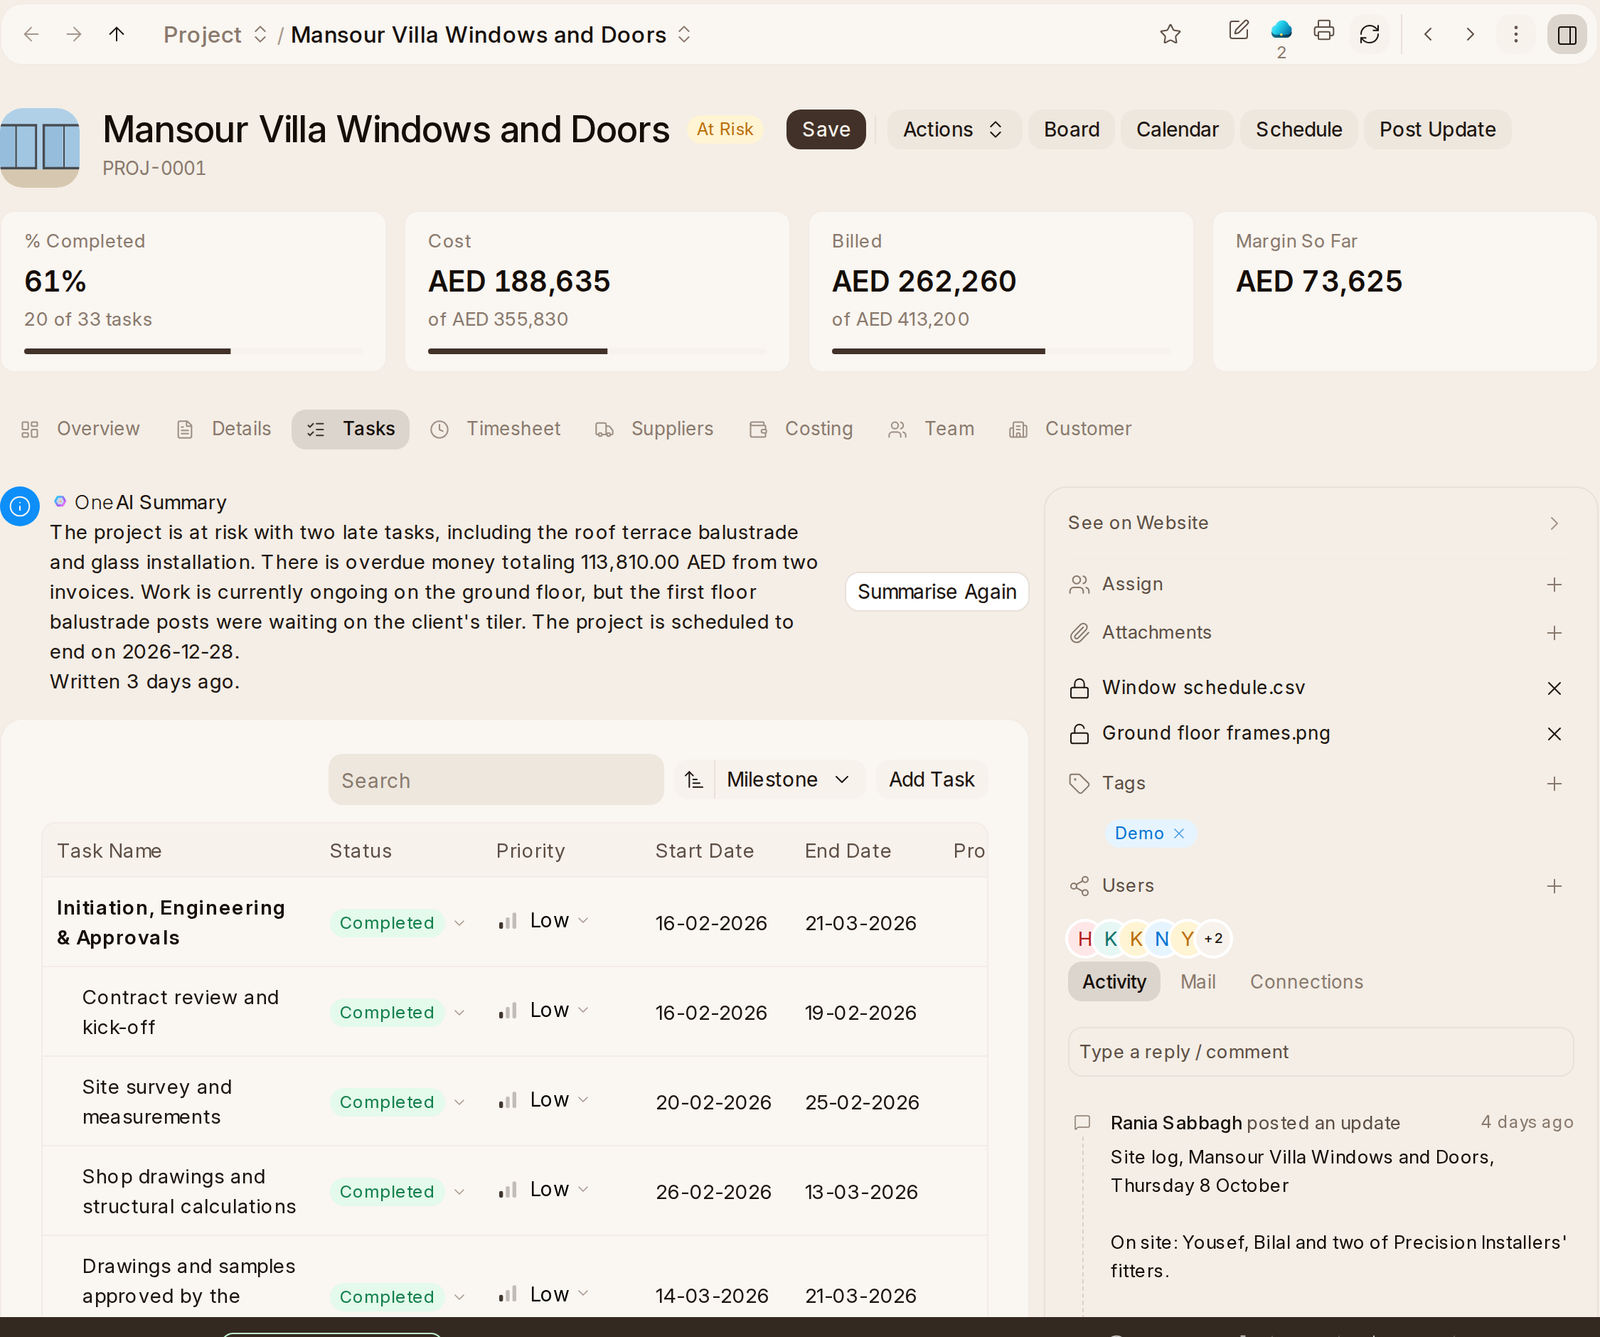
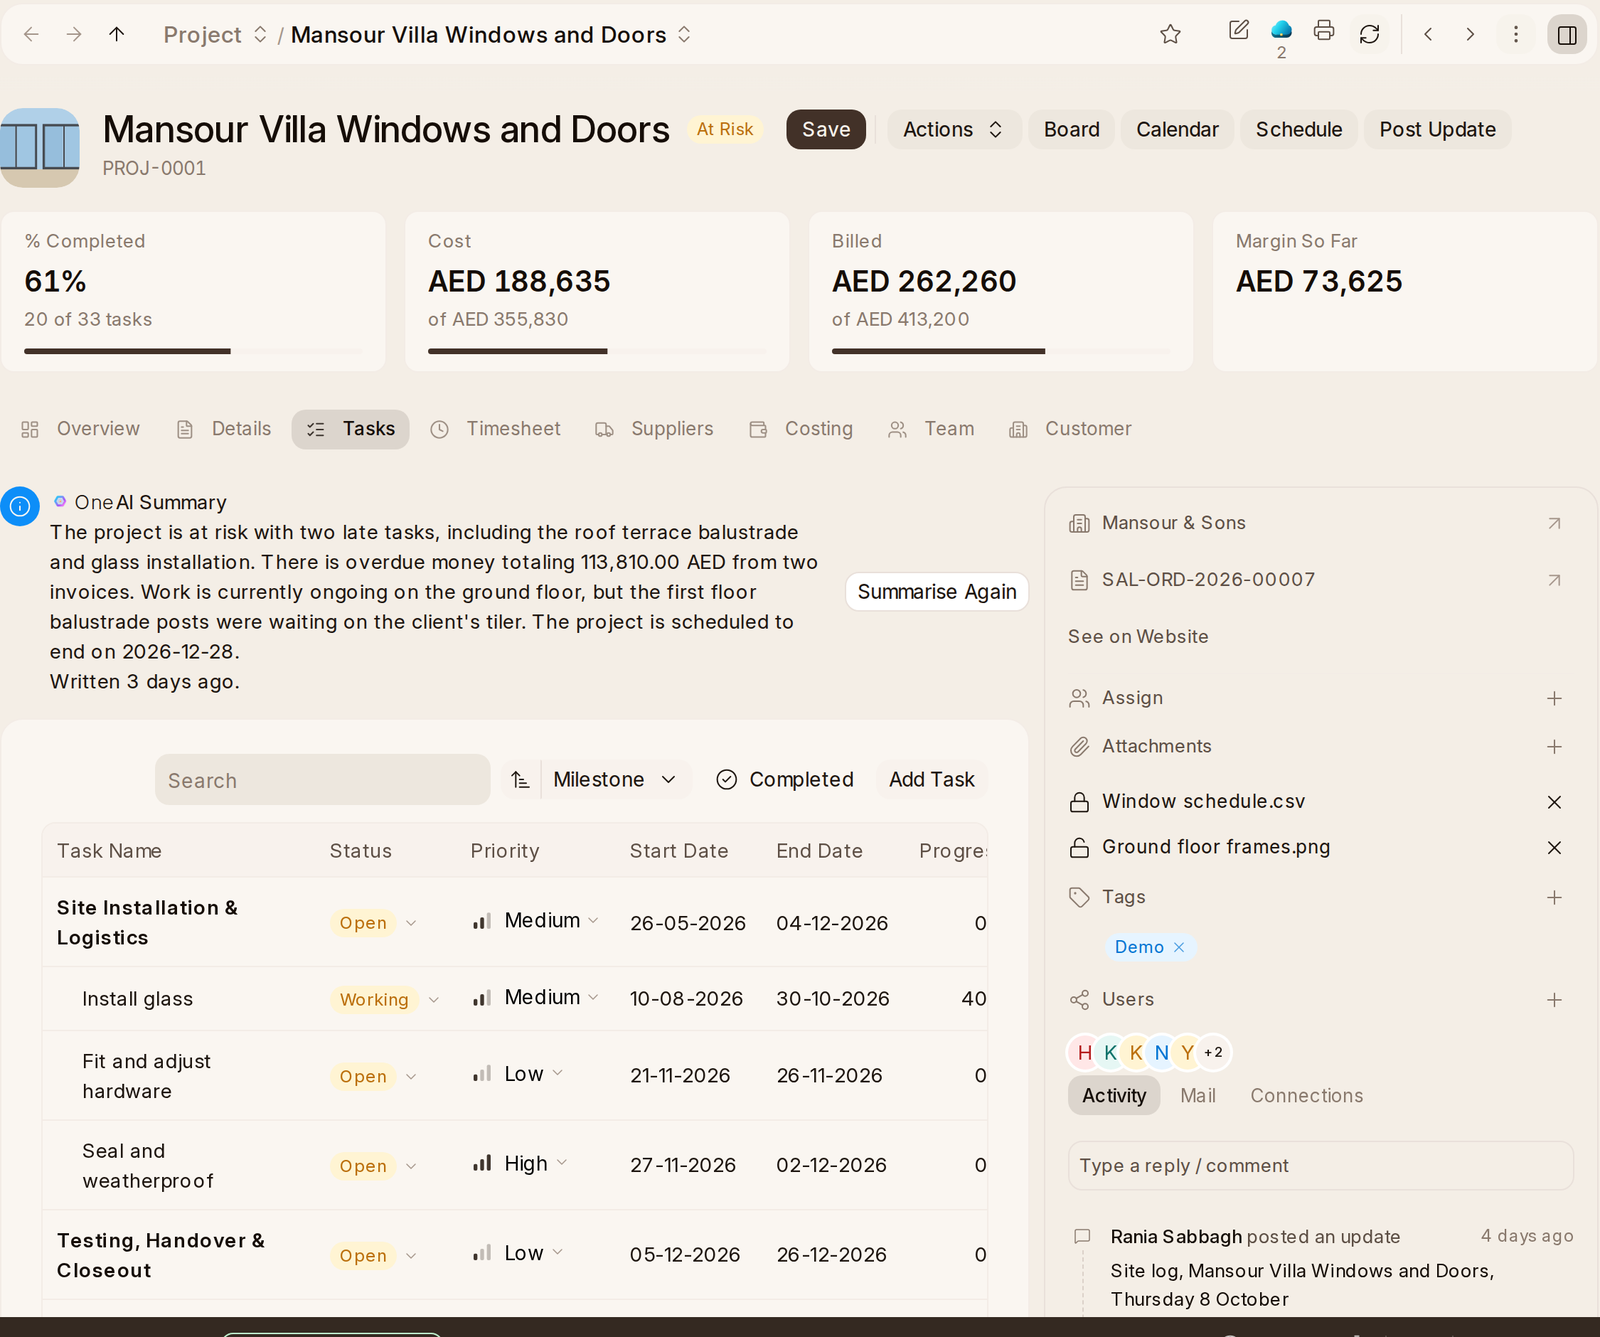
OneProject 2.2.0: what the project page had, on frappe's own parts
Yamen asked to bring back what the old project page did, more natively.
Compared with 0e1630ff^ (ProjectPage, TaskPanel, Tasks, group.js, Facts):

- A task opens beside the project. The old TaskPanel is frappe's own
  SidePanel (side_panel.bundle.js, the drawer ERPNext's reports preview a
  link in), with Open in full page; a phone routes to the task, as frappe's
  split view does. Status and priority stay editable in the row.
- Group by: the old page grouped by part, status, person or due. The same
  EmbeddedList puts a heading wherever the sort's value changes: Milestone
  (the task tree, as before), Status, Priority, and End Date as Late, Next
  7 Days, Later and No End Date, each with its count. A person cannot be a
  sort (_assign is not sortable), so that grouping stays on Board.
- Done: hidden until Completed is pressed, as the page did. project_tasks
  takes done=0, leaves out completed and cancelled tasks, and keeps a
  milestone while a step under it is shown; the list's get_page asks
  through ERPNext's own method name, overridden as before.
- Facts under the name: the customer and the sales order are the panel's
  first rows. The registry's links take a third kind, open (the record a
  field names, by its title), beside new and list; test_interface checks
  the field exists. Links no longer clear the panel's actions, so See on
  Website stays.
- Not brought back: Featured Media's gallery (OneCloud's folder, from the
[…]

diff --git a/onedesk/public/js/project.js b/onedesk/public/js/project.js
@@ -71,6 +71,20 @@ frappe.provide("onedesk.project");
 
 onedesk.project.by_milestone = (frm, list) => {
 	const $actions = frm.get_field("tasks_html").$wrapper.find(".embedded-list-header-actions");
+	frm.tasks_done ??= false;
+	list.get_page = ({ start, page_length, txt }) =>
+		frappe.xcall("erpnext.projects.doctype.project.project.get_project_tasks", {
+			project: frm.doc.name,
+			...frm.tasks_sort,
+			start,
+			page_length,
+			txt,
+			done: frm.tasks_done ? 1 : 0,
+		});
+	list.on_row_click = (row) =>
+		frappe.is_mobile()
+			? frappe.set_route("Form", "Task", row.name)
+			: frappe.require("side_panel.bundle.js").then(() => frappe.ui.get_side_panel().open("Task", row.name));
 	new frappe.ui.SortSelector({
 		parent: $actions,
 		doctype: "Task",
@@ -89,12 +103,38 @@ onedesk.project.by_milestone = (frm, list) => {
 			list.refresh();
 		},
 	}).wrapper.insertAfter($actions.find("[data-action='search']"));
+	const $done = $(
+		frappe.ui.button.html({ label: __("Completed"), icon: "circle-check", variant: frm.tasks_done ? "subtle" : "ghost", attrs: { "aria-pressed": String(frm.tasks_done) } })
+	).insertBefore($actions.find("[data-action='add-row']").first().length ? $actions.find("[data-action='add-row']").first() : $actions.children().last());
+	$done.attr("title", __("Show Completed Tasks")).on("click", () => {
+		frm.tasks_done = !frm.tasks_done;
+		frappe.ui.button.dress($done, { variant: frm.tasks_done ? "subtle" : "ghost" });
+		$done.attr("aria-pressed", String(frm.tasks_done));
+		list.refresh();
+	});
 	const dress = () => {
-		const grouped = frm.tasks_sort.sort_by === "lft";
-		list.$wrapper.find("tbody tr[data-row-idx]").each((_i, tr) => {
+		const by = frm.tasks_sort.sort_by;
+		const $rows = list.$wrapper.find("tbody tr[data-row-idx]");
+		list.$wrapper.find("tbody tr.one-row-heading").remove();
+		$rows.each((_i, tr) => {
 			const row = list.data[tr.dataset.rowIdx] || {};
-			tr.classList.toggle("one-row-group", grouped && !!row.is_group);
-			tr.classList.toggle("one-row-child", grouped && !row.is_group && !!row.parent_task);
+			tr.classList.toggle("one-row-group", by === "lft" && !!row.is_group);
+			tr.classList.toggle("one-row-child", by === "lft" && !row.is_group && !!row.parent_task);
+		});
+		const group = onedesk.project.TASK_GROUPS[by];
+		if (!group) return;
+		const keys = list.data.map((row) => group(row));
+		const width = list.columns.length + (list.show_index ? 1 : 0);
+		let was = null;
+		$rows.each((_i, tr) => {
+			const key = keys[tr.dataset.rowIdx];
+			if (key === was) return;
+			was = key;
+			const count = keys.filter((one) => one === key).length;
+			$(`<tr class="one-row-heading"><td colspan="${width}"><span></span><span class="one-row-count"></span></td></tr>`)
+				.find("span:first").text(key).end()
+				.find(".one-row-count").text(count).end()
+				.insertBefore(tr);
 		});
 	};
 	list.after_render = dress;
@@ -103,7 +143,17 @@ onedesk.project.by_milestone = (frm, list) => {
 		more();
 		dress();
 	};
-	dress();
+	list.refresh();
+};
+
+onedesk.project.TASK_GROUPS = {
+	status: (row) => __(row.status || "Open"),
+	priority: (row) => __(row.priority || "Low"),
+	exp_end_date: (row) => {
+		if (!row.exp_end_date) return __("No End Date");
+		const days = frappe.datetime.get_day_diff(row.exp_end_date, frappe.datetime.get_today());
+		return days < 0 ? __("Late") : days <= 7 ? __("Next 7 Days") : __("Later");
+	},
 };
 
 onedesk.project.said = (frm) => {

diff --git a/onedesk/public/js/one_interface/form.js b/onedesk/public/js/one_interface/form.js
@@ -593,16 +593,19 @@ onedesk.interface.holds = (doc, when) =>
 onedesk.interface.links = (frm) => {
 	const said = frappe.boot.one_interface?.[frm.doctype]?.links;
 	if (!said?.length || frm.is_new() || !frm.sidebar) return;
-	frm.sidebar.clear_user_actions();
+	frm.sidebar.user_actions.find(".user-action-row:has(.user-action-link[data-one-link])").remove();
 	for (const link of said) {
 		if (!onedesk.interface.holds(frm.doc, link.when)) continue;
-		if (link.new ? !frappe.model.can_create(link.new) : !frappe.model.can_read(link.list)) continue;
+		const target = link.open && frm.fields_dict[link.open]?.df.options;
+		const value = link.open && frm.doc[link.open];
+		if (link.open ? !value || !frappe.model.can_read(target) : link.new ? !frappe.model.can_create(link.new) : !frappe.model.can_read(link.list)) continue;
 		const values = Object.fromEntries(Object.entries(link.with).map(([theirs, ours]) => [theirs, frm.doc[ours]]));
+		const label = link.open ? frappe.utils.get_link_title(target, value) || value : __(link.label);
 		frm.sidebar
-			.add_user_action(`${frappe.utils.icon(link.icon, "sm")}<span>${__(link.label)}</span>`, () =>
-				link.new ? frappe.new_doc(link.new, values) : frappe.set_route("List", link.list, values)
+			.add_user_action(`${frappe.utils.icon(link.icon, "sm")}<span>${frappe.utils.escape_html(label)}</span>`, () =>
+				link.open ? frappe.set_route("Form", target, value) : link.new ? frappe.new_doc(link.new, values) : frappe.set_route("List", link.list, values)
 			)
-			.attr("data-kind", link.new ? "new" : "list");
+			.attr({ "data-kind": link.open ? "open" : link.new ? "new" : "list", "data-one-link": "", title: link.open ? __(link.label) : null });
 	}
 };
 

diff --git a/onedesk/public/css/shell.css b/onedesk/public/css/shell.css
@@ -473,6 +473,26 @@ a.one-shell-row:hover {
 .embedded-list tr.one-row-child td:first-child {
 	padding-inline-start: 28px;
 }
+.embedded-list .embedded-list-header-actions {
+	flex-shrink: 1;
+	flex-wrap: wrap;
+	justify-content: flex-end;
+	min-width: 0;
+}
+.embedded-list tr.one-row-heading td {
+	padding-top: 14px;
+	font-weight: var(--weight-semibold);
+	color: var(--ink-gray-9);
+	background: transparent;
+}
+.embedded-list tr.one-row-heading:hover {
+	background: transparent;
+}
+.embedded-list tr.one-row-heading .one-row-count {
+	margin-inline-start: 8px;
+	font-weight: var(--weight-regular);
+	color: var(--ink-gray-5);
+}
 
 .one-shell-part-mark {
 	display: inline-flex;

diff --git a/onedesk/public/js/one_interface/look.js b/onedesk/public/js/one_interface/look.js
@@ -427,7 +427,7 @@ record.icons = (frm) => {
 record.shortcuts = (frm) => {
 	const box = frm.page.wrapper[0].querySelector(".form-sidebar .user-actions");
 	if (!box) return;
-	const TRAIL = { new: "plus", list: "arrow-up-right" };
+	const TRAIL = { new: "plus", list: "arrow-up-right", open: "arrow-up-right" };
 	box.querySelectorAll(".user-action-link").forEach((link) => {
 		if (link.querySelector(".one-trail")) return;
 		link.querySelector(".user-action-external-icon")?.remove();

diff --git a/onedesk/one/ready.py b/onedesk/one/ready.py
@@ -204,6 +204,10 @@ MODULES = {
 				},
 				"fields": {"customer": "building-2", "expected_start_date": "calendar", "expected_end_date": "calendar-check", "company": "building", "sales_order": "file-text", "priority": "flag"},
 				"cards": ({"key": "project.done"}, {"key": "project.cost"}, {"key": "project.billed"}, {"key": "project.margin"}),
+				"links": (
+					{"label": _lt("Customer"), "icon": "building-2", "open": "customer"},
+					{"label": _lt("Sales Order"), "icon": "file-text", "open": "sales_order"},
+				),
 				"states": {"field": "status", "order": ("Open", "On hold", "Completed"), "hide": ("Cancelled",)},
 			},
 			"Project Template": {
@@ -1549,21 +1553,23 @@ def _states(said: dict | None) -> dict:
 	return {"field": said.get("field", "status"), "order": list(said.get("order") or ()), "hide": list(said.get("hide") or ()), "kinds": kinds}
 
 
-LINK_KEYS = {"label", "icon", "new", "list", "with", "when"}
+LINK_KEYS = {"label", "icon", "new", "list", "open", "with", "when"}
 
 
 def _link(said: dict) -> dict:
-	"""A record's shortcut: a new record of `new`, or the list of `list`,
-	with `with` (the other type's field: this record's field) carried over,
-	shown while every `when` ([field, "=" | "!=" | "in", value]) holds."""
+	"""A record's shortcut: a new record of `new`, the list of `list`, or
+	the record this one's `open` field names, with `with` (the other type's
+	field: this record's field) carried over, shown while every `when`
+	([field, "=" | "!=" | "in", value]) holds."""
 	strange = set(said) - LINK_KEYS
-	if strange or not said.get("label") or bool(said.get("new")) == bool(said.get("list")):
-		raise ValueError(f"a link must say a label and one of new or list: {said}")
+	if strange or not said.get("label") or sum(bool(said.get(one)) for one in ("new", "list", "open")) != 1:
+		raise ValueError(f"a link must say a label and one of new, list or open: {said}")
 	return {
 		"label": str(said["label"]),
 		"icon": said.get("icon") or "arrow-up-right",
 		"new": said.get("new"),
 		"list": said.get("list"),
+		"open": said.get("open"),
 		"with": dict(said.get("with") or {}),
 		"when": [list(one) for one in said.get("when") or ()],
 	}

diff --git a/onedesk/one_project/milestones.py b/onedesk/one_project/milestones.py
@@ -4,7 +4,7 @@ project or any project under it.
 
 import frappe
 from frappe import _
-from frappe.utils import date_diff, flt, getdate, nowdate
+from frappe.utils import cint, date_diff, flt, getdate, nowdate
 
 from onedesk.one_project import tree
 
@@ -197,13 +197,19 @@ def project_tasks(
 	start: int = 0,
 	page_length: int = 50,
 	txt: str | None = None,
+	done: int | str = 1,
 ) -> list[dict]:
 	"""ERPNext's page of a project's tasks for its form's Tasks tab
 	(project.get_project_tasks), each row also saying whether it is a
-	milestone and which milestone it is under, so the tab can group them."""
+	milestone and which milestone it is under, so the tab can group them.
+	With `done` 0, a completed or cancelled task is left out, and a
+	milestone stays while a step under it is shown."""
 	from erpnext.projects.doctype.project.project import get_project_tasks
 
-	rows = get_project_tasks(project, sort_by, sort_order, start, page_length, txt)
+	if str(done) in ("1", "true", "True"):
+		rows = get_project_tasks(project, sort_by, sort_order, start, page_length, txt)
+	else:
+		rows = get_project_tasks(project, sort_by, sort_order, 0, 1000, txt)
 	said = {
 		one.name: one
 		for one in frappe.get_all(
@@ -213,4 +219,11 @@ def project_tasks(
 	for row in rows:
 		row["is_group"] = said.get(row["name"], {}).get("is_group") or 0
 		row["parent_task"] = said.get(row["name"], {}).get("parent_task")
-	return rows
+	if str(done) in ("1", "true", "True"):
+		return rows
+	from onedesk.one_project.overview import DONE
+
+	open_ = [row for row in rows if row.get("status") not in DONE]
+	under = {row["parent_task"] for row in open_ if row["parent_task"]}
+	kept = [row for row in rows if row.get("status") not in DONE or row["name"] in under]
+	return kept[cint(start) : cint(start) + cint(page_length)]

diff --git a/tests/guards/test_interface.py b/tests/guards/test_interface.py
@@ -129,6 +129,10 @@ def test_a_link_opens_a_record_type_that_exists_and_carries_real_fields():
 	for doctype, said in DECLARED.items():
 		ours = _fieldnames(doctype)
 		for one in said["links"]:
+			if one.get("open"):
+				if ours is not None and one["open"] not in ours:
+					wrong.append(f"{doctype}: {one['label']} opens the record in {one['open']}, which it does not have")
+				continue
 			target = one["new"] or one["list"]
 			theirs = _fieldnames(target)
 			if theirs is None:

diff --git a/onedesk/one_project/docs/tasks-and-schedule.md b/onedesk/one_project/docs/tasks-and-schedule.md
@@ -1,13 +1,21 @@
 # Tasks and Schedule
 
-A project's **Tasks** tab lists its tasks, each with its status, priority,
-start and end dates, progress and who it's assigned to. Change a task's
-status or priority right in its row. The tasks are listed under the
-milestone they belong to, each milestone in bold with its steps under it;
-the sort's **Milestone** puts them back that way after another order.
-**Search** finds a task, and **Add Task** adds one. Click a task to open it. **Board**,
-**Calendar** and **Schedule** at the top of the project show its tasks in
-columns, on its calendar or on a timeline (see below).
+A project's **Tasks** tab lists its tasks still to do, each with its status,
+priority, start and end dates, progress and who it's assigned to. Change a
+task's status or priority right in its row. **Completed** shows the tasks
+already done or cancelled too.
+
+The tasks are listed under the milestone they belong to, each milestone in
+bold with its steps under it. Sort by **Status** or **Priority** and they are
+grouped by it, or by **End Date** into **Late**, **Next 7 Days**, **Later**
+and **No End Date**, each group with how many it holds. **Milestone** in the
+sort puts them back under their milestones.
+
+Click a task to see it in a panel beside the project, with **Open in full
+page** to change it. On a phone it opens on its own. **Search** finds a task,
+and **Add Task** adds one. **Board**, **Calendar** and **Schedule** at the
+top of the project show its tasks in columns, on its calendar or on a
+timeline (see below).
 
 ![A project's Tasks tab, each task under its milestone](tasks-and-schedule/tasks.png)
 

diff --git a/docs/REGISTRY.md b/docs/REGISTRY.md
@@ -148,7 +148,7 @@ What a person looks at:
 - **OneInterface pass**: each screen, as each role, on a desktop and a phone: tokens only, frappe's controls, live where data changes, and the reader's formats.
 - **Legal**: what it does with data, read against what its clauses, subprocessors and optional services say.
 
-## OneProject 2.1.0
+## OneProject 2.2.0
 
 Ready.
 
@@ -496,7 +496,7 @@ What a person looks at:
 - **OneInterface pass**: each screen, as each role, on a desktop and a phone: tokens only, frappe's controls, live where data changes, and the reader's formats.
 - **Legal**: what it does with data, read against what its clauses, subprocessors and optional services say.
 
-## OneInterface 1.10.0
+## OneInterface 1.11.0
 
 Not marked ready yet.
 

diff --git a/onedesk/one_project/docs/changelog/2.2.0.md b/onedesk/one_project/docs/changelog/2.2.0.md
@@ -1,0 +1,15 @@
+---
+date: 2026-11-07
+kind: minor
+title: Tasks open beside the project
+docs: tasks-and-schedule, a-projects-page
+fingerprint: 8a378f323a4c
+legal: privacy 9f5087c8, ai edcd5cb6
+---
+
+- On a project's **Tasks** tab, clicking a task shows it in a panel beside
+  the project, with **Open in full page** to change it.
+- Tasks done or cancelled are hidden until you press **Completed**.
+- Sorted by **Status**, **Priority** or **End Date**, the tasks are grouped
+  under a heading for each, with how many it holds.
+- The customer and the sales order are at the top of the project's panel.

diff --git a/onedesk/one_project/docs/a-projects-page.md b/onedesk/one_project/docs/a-projects-page.md
@@ -11,6 +11,9 @@ and health, and four figures:
 
 ![A project's page with its four figures and its tabs](a-projects-page/project.png)
 
+At the top of the panel beside it are the customer and the sales order the
+project was won with, each opening its own page.
+
 Beside the name are the project's buttons (see Buttons below), and on the
 right who it's assigned to, its attachments, tags, sharing and likes, with
 its **Activity**, **Mail** and **Connections**.

diff --git a/onedesk/one_interface/docs/changelog/1.11.0.md b/onedesk/one_interface/docs/changelog/1.11.0.md
@@ -1,0 +1,10 @@
+---
+date: 2026-11-07
+kind: minor
+title: A record's links open it
+fingerprint: b242e7d9f5bf
+legal: 
+---
+
+The panel beside a record can show the records it names, such as a project's
+customer, each opening its page, and keeps **See on Website** beside them.
